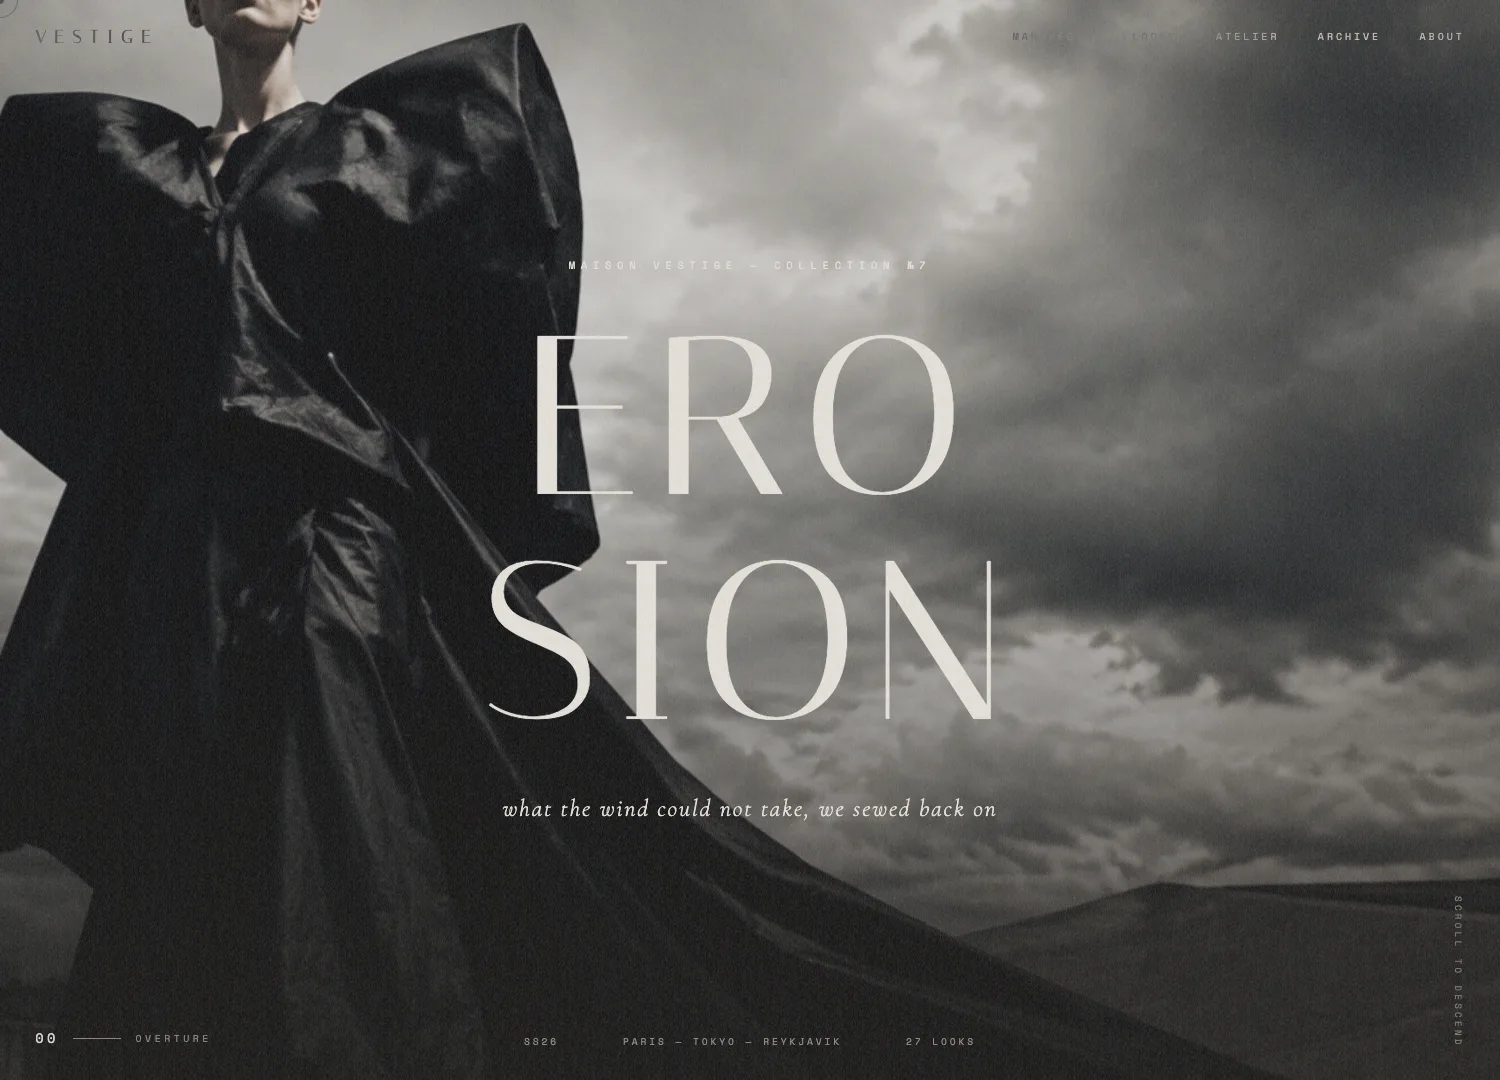
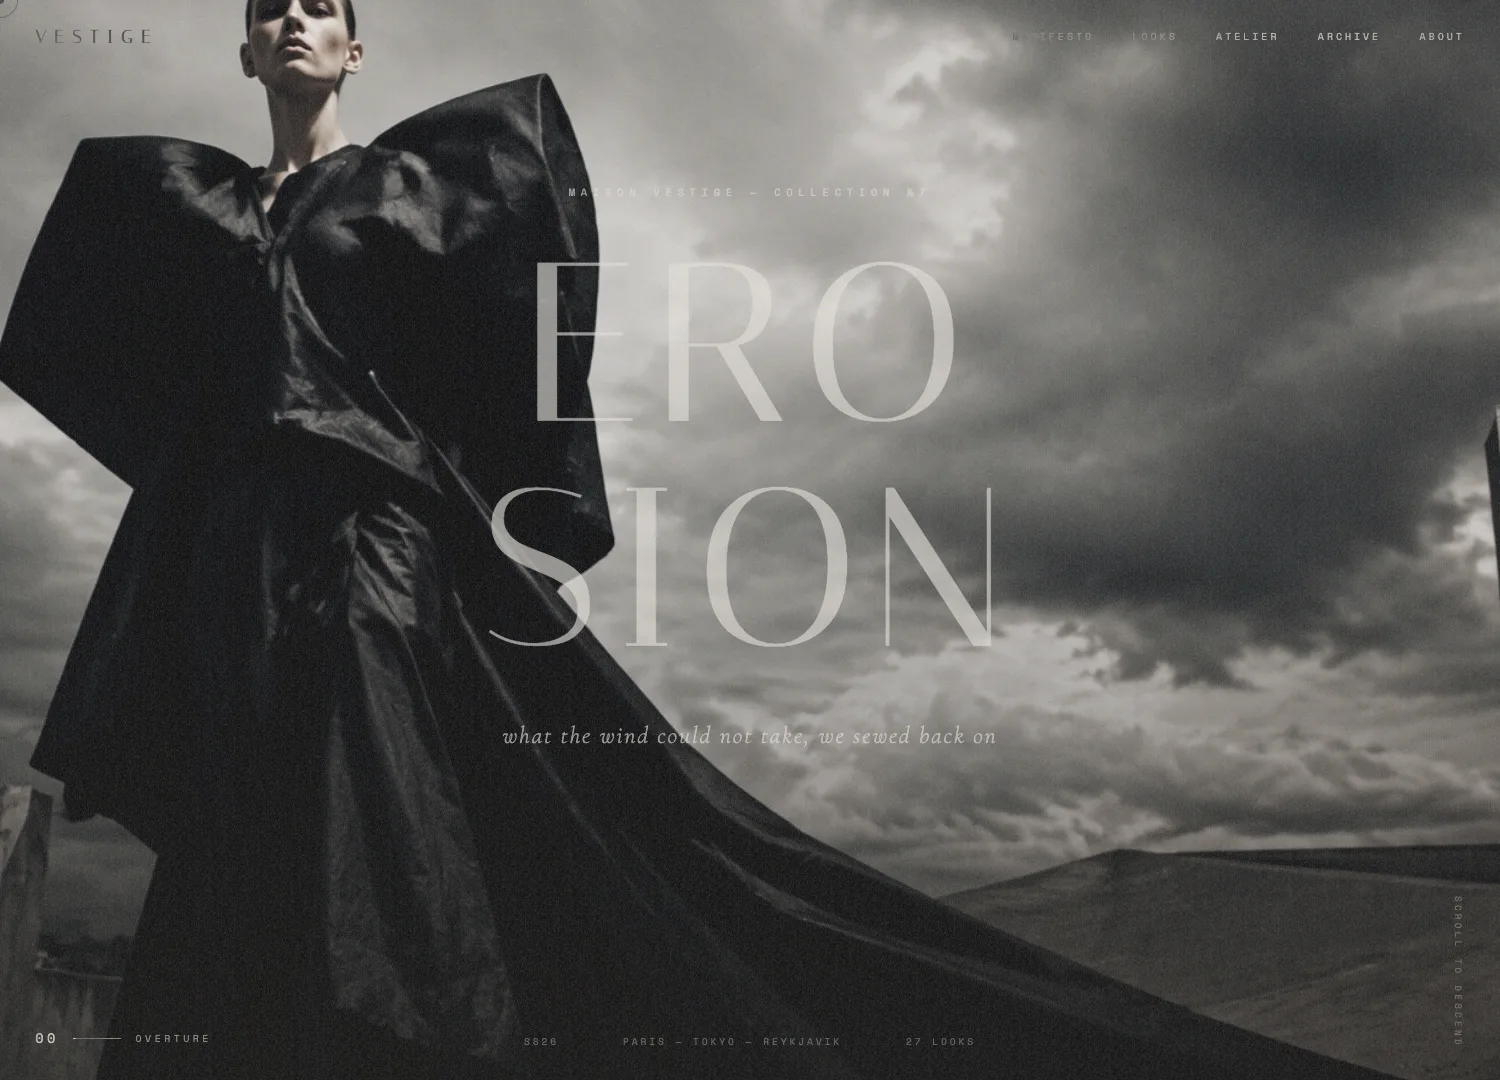
marketing/templates/detail: real shots in Keep Exploring + new gallery frames
- Related "More templates from the catalog" cards now render each template's
  real screenshot (fill / contain / top-anchored slice, mirroring the catalog
  grid) instead of placeholder mock SVGs.
- Recapture the 3 Fashion Editorial gallery frames to the chosen compositions:
  EROSION hero, Selected Looks (red + silver), ERODED finale.

diff --git a/marketing/templates/detail/index.html b/marketing/templates/detail/index.html
@@ -518,7 +518,16 @@
     transition: border-color 0.25s ease;
   }
   .catalog-card:hover .catalog-card-preview { border-color: rgba(255,255,255,0.22); }
+  .catalog-card-preview { position: relative; }
   .catalog-card-preview svg { width: 100%; height: 100%; display: block; }
+  /* Real-shot rendering — mirrors the catalog grid so related cards show the
+     actual template screenshot instead of a placeholder mock. */
+  .catalog-card-fill { width: 100%; height: 100%; object-fit: cover; object-position: 50% 0%; display: block; }
+  .catalog-card-contain-wrap { position: absolute; inset: 0; display: flex; align-items: center; justify-content: center; }
+  .catalog-card-contain { width: 100%; height: auto; display: block; }
+  .catalog-card-shot-wrap { position: relative; width: 100%; height: 100%; overflow: hidden; }
+  .catalog-card-shot { width: 100%; height: auto; display: block; }
+  .catalog-card-shot-wrap .catalog-card-shot { position: absolute; top: 0; left: 0; }
   .catalog-card-foot {
     display: flex;
     align-items: center;
@@ -2205,9 +2214,22 @@ function slugify(s) { return s.toLowerCase().replace(/[^a-z0-9]+/g, '-').replace
   var others = CATALOG.filter(function (i) { return i !== item; });
   for (var i = others.length - 1; i > 0; i--) { var j = Math.floor((i * 9301 + 49297) % 233280 / 233280 * (i + 1)); var t = others[i]; others[i] = others[j]; others[j] = t; }
   var related = others.slice(0, 4);
+  /* Real full-page screenshot (`shot`) rendered exactly as the catalog grid does
+     — fill / contain / top-anchored slice — falling back to the placeholder mock
+     only if a template has no shot. */
+  function relatedMedia(r) {
+    if (!r.shot) return PREVIEW_MOCKS[(CATALOG.indexOf(r)) % PREVIEW_MOCKS.length];
+    if (r.fill) return '<img class="catalog-card-fill" src="' + r.shot + '" alt="" loading="lazy" decoding="async">';
+    if (r.contain) {
+      var bg = r.bg ? ' style="background:' + r.bg + '"' : '';
+      return '<div class="catalog-card-contain-wrap"' + bg + '><img class="catalog-card-contain" src="' + r.shot + '" alt="" loading="lazy" decoding="async"></div>';
+    }
+    var focusStyle = r.focus ? ' style="transform:translateY(' + (-r.focus * 100).toFixed(1) + '%)"' : '';
+    return '<div class="catalog-card-shot-wrap"><img class="catalog-card-shot" src="' + r.shot + '" alt=""' + focusStyle + ' width="800" height="2245" loading="lazy" decoding="async"></div>';
+  }
   document.getElementById('related-grid').innerHTML = related.map(function (r, ridx) {
     return '<a href="./?slug=' + slugify(r.name) + '" class="catalog-card">'
-      + '<div class="catalog-card-preview" aria-hidden="true">' + PREVIEW_MOCKS[(CATALOG.indexOf(r)) % PREVIEW_MOCKS.length] + '</div>'
+      + '<div class="catalog-card-preview" aria-hidden="true">' + relatedMedia(r) + '</div>'
       + '<div class="catalog-card-foot">'
       +   '<span class="catalog-card-name">' + r.name + '</span>'
       +   '<span class="catalog-card-tag">' + TAG_LABELS[r.tag] + '</span>'
